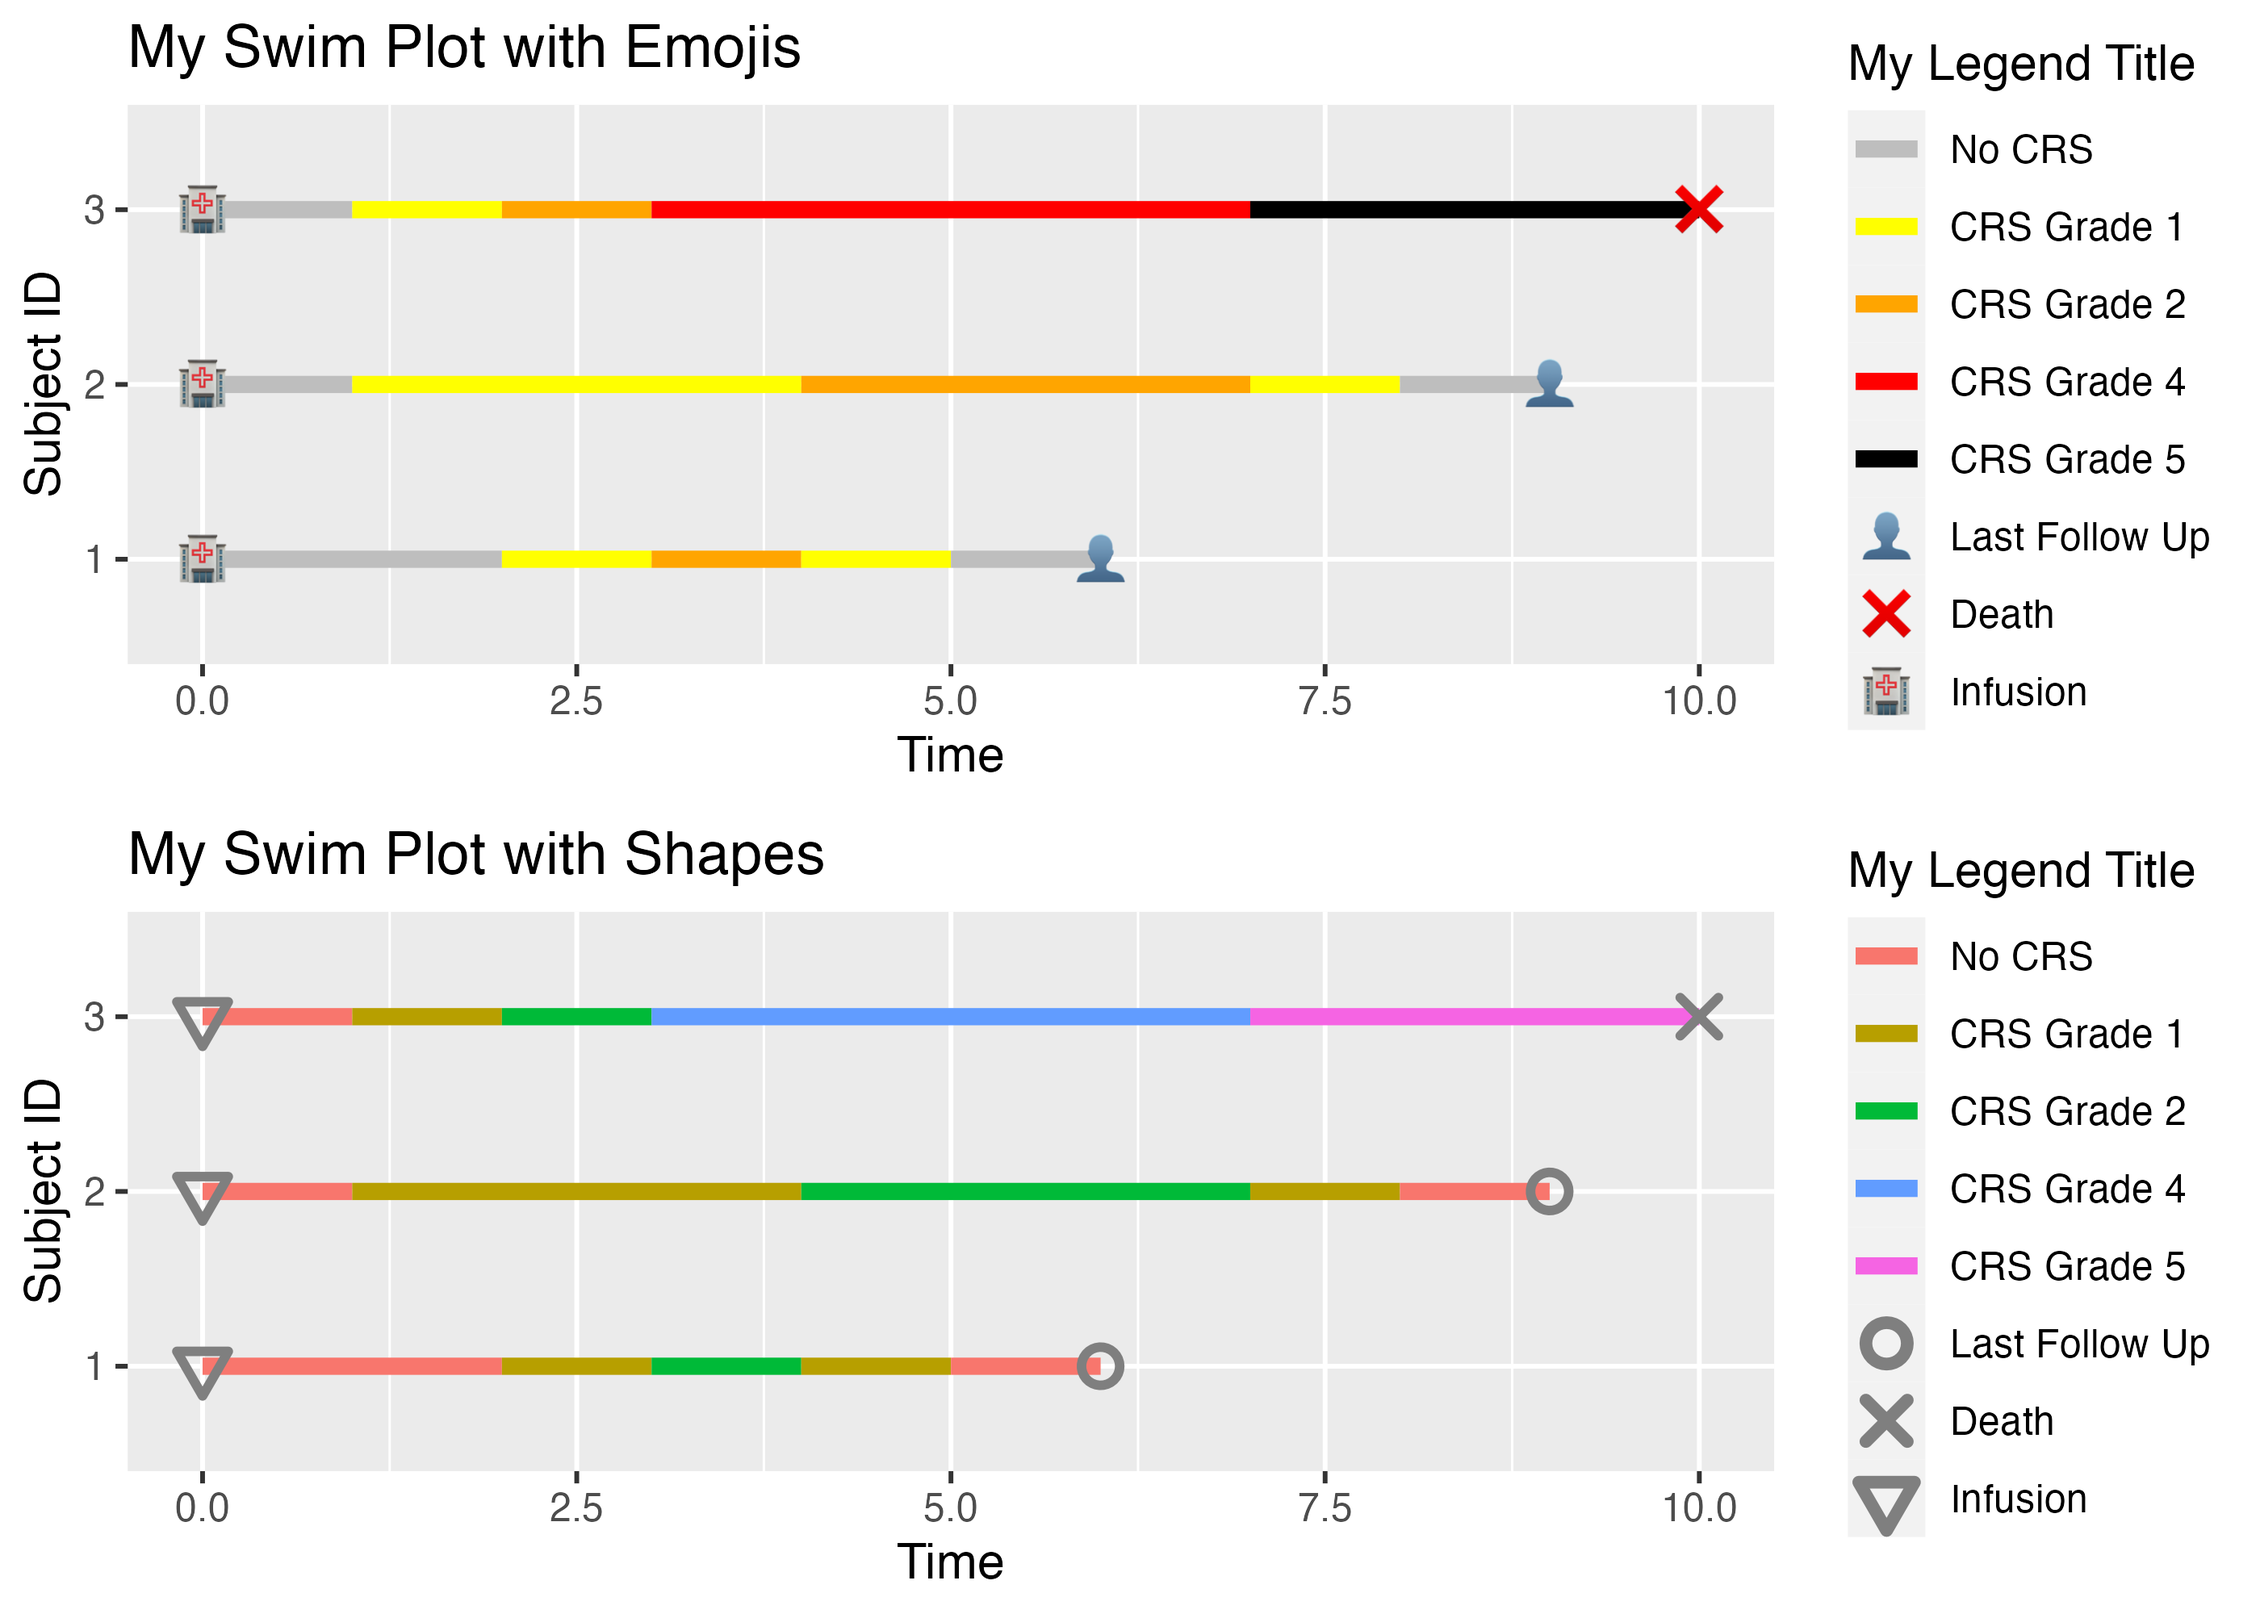
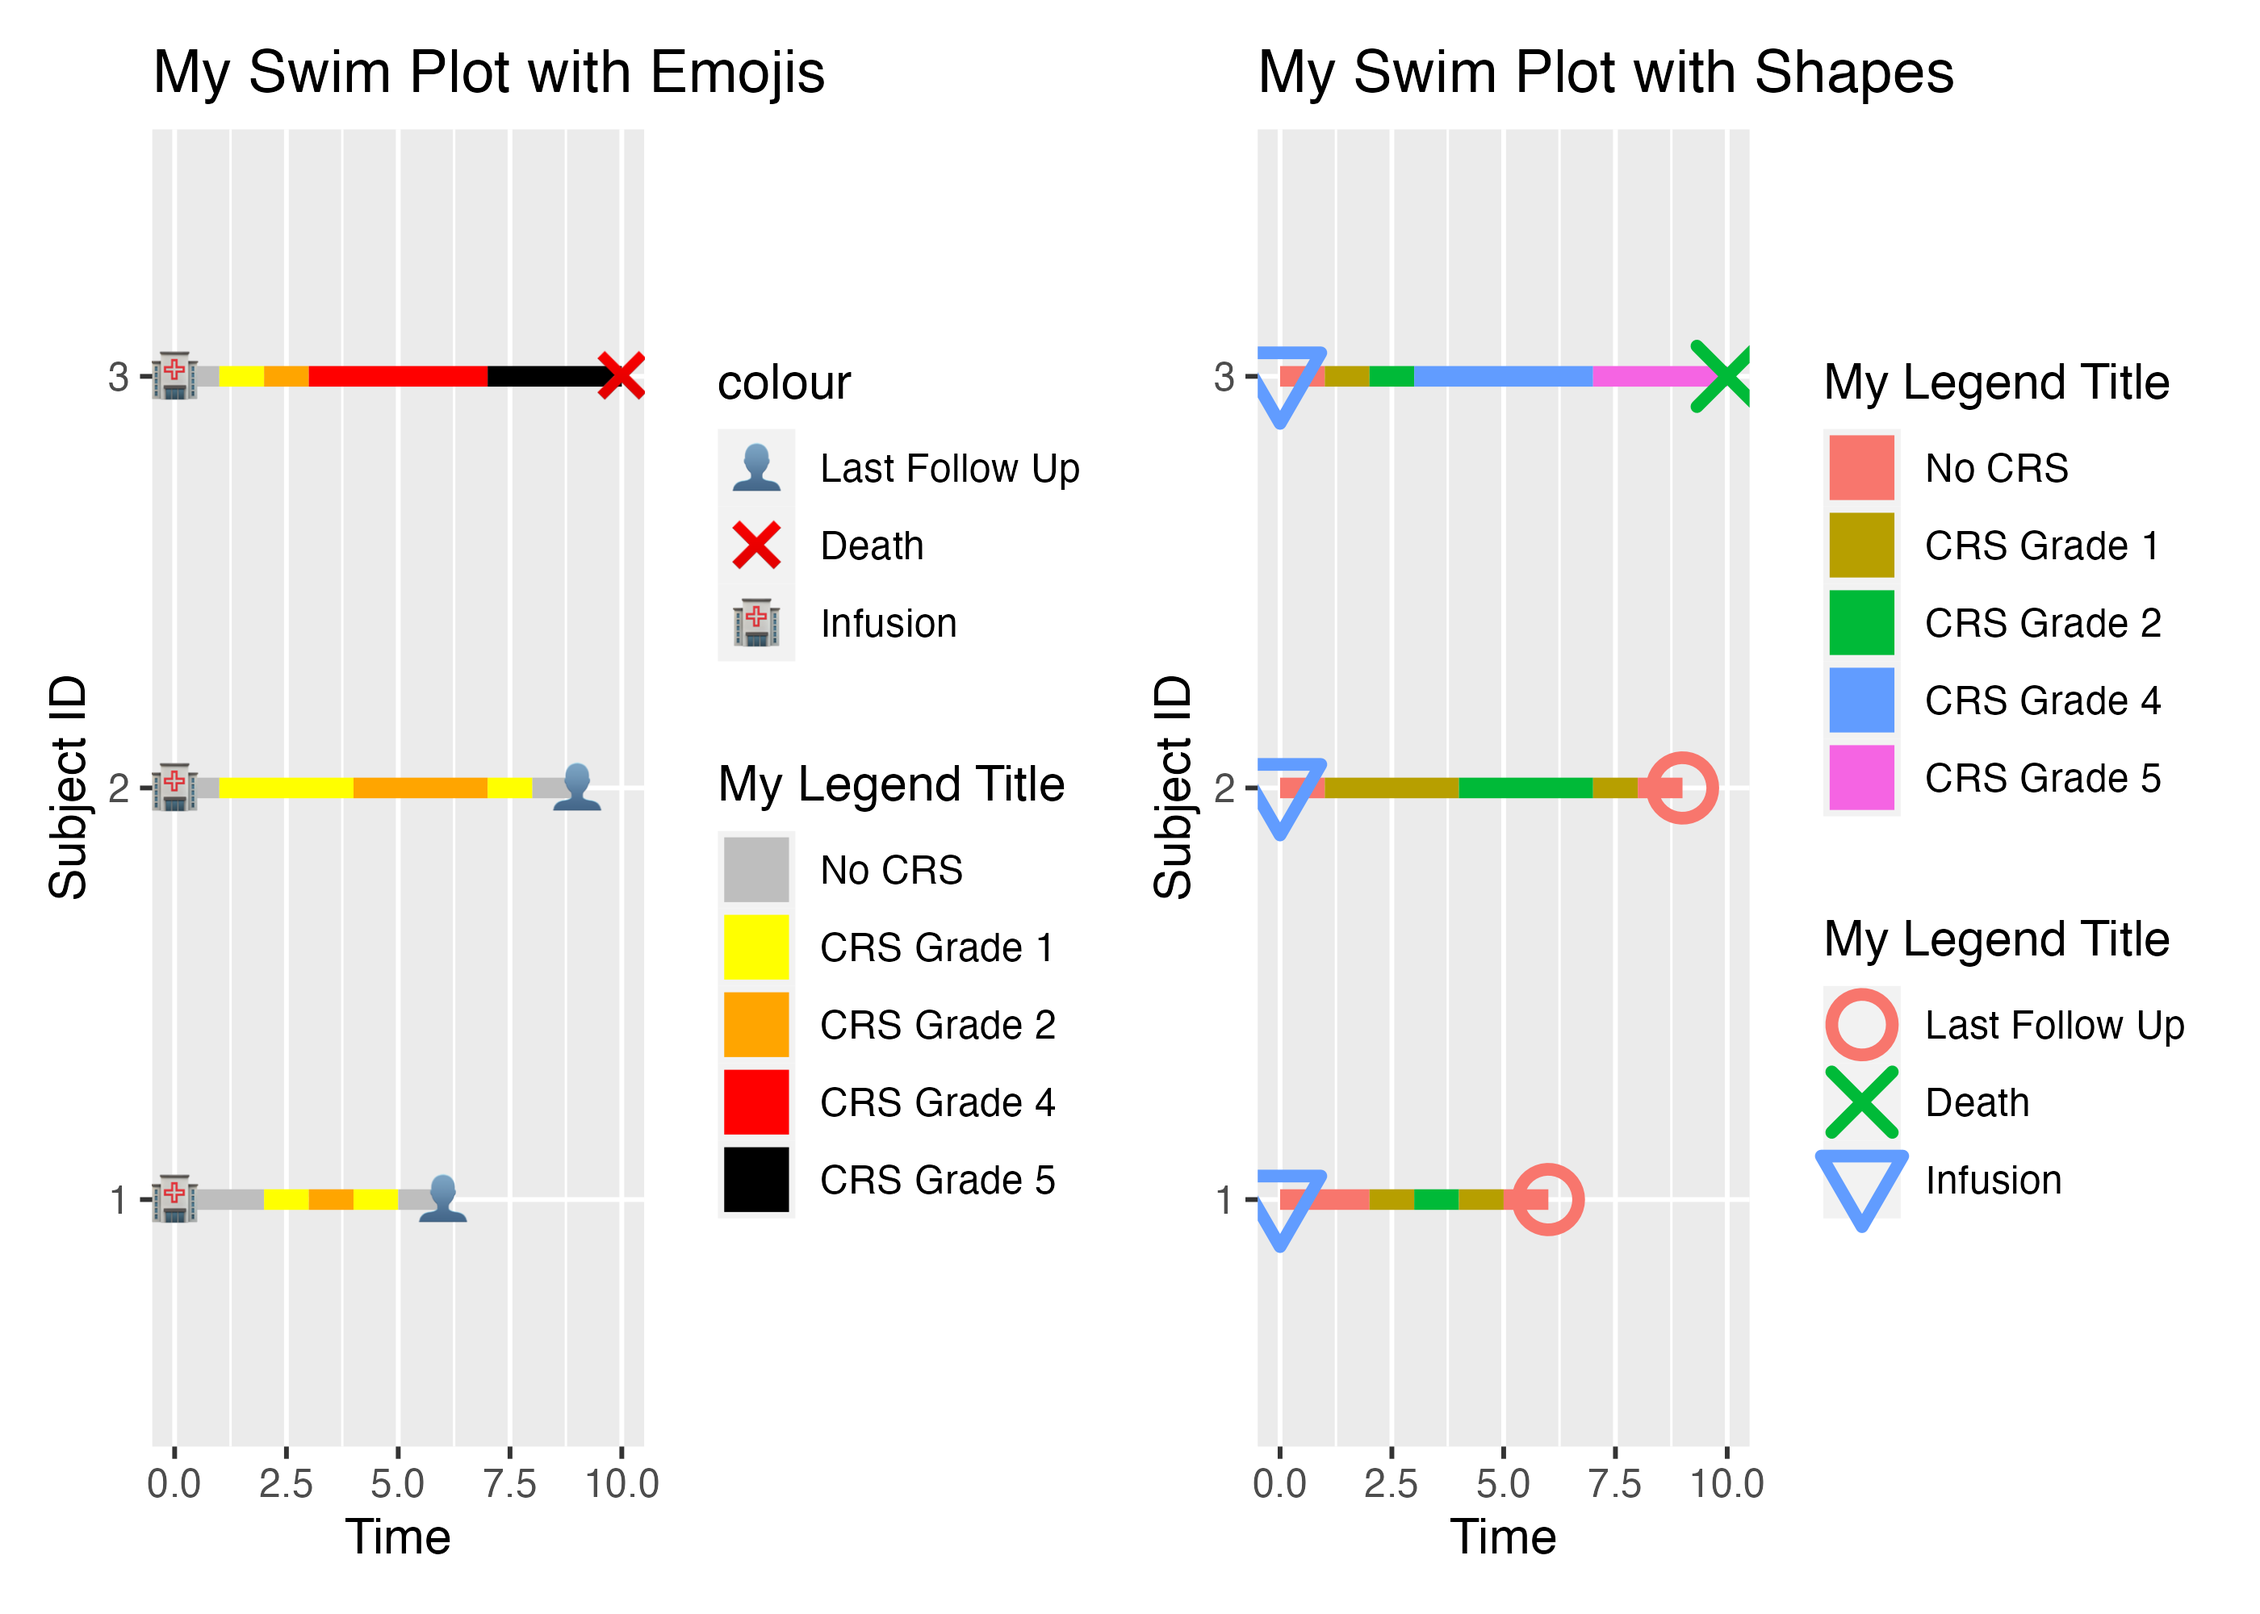
Allow for multiple legend titles

diff --git a/README.md b/README.md
@@ -86,7 +86,7 @@ plot1 <- df |>
          reference_event = "Infusion",
          markers = markers_emoji,
          lanes = lanes,
-         legend_title = "My Legend Title") +
+         legend_title = c("My Lanes Legend", "My Markers Legend")) +
   ggplot2::labs(title = "My Swim Plot with Emojis", x = "Time", y = "Subject ID")
 
 markers_shape <- list(
@@ -111,7 +111,7 @@ plot2 <- df |>
          reference_event = "Infusion",
          markers = markers_shape,
          lanes = unnamed_lanes,
-         legend_title = "My Legend Title") +
+         legend_title = c("My Lanes Legend", "My Markers Legend")) +
   ggplot2::labs(title = "My Swim Plot with Shapes", x = "Time", y = "Subject ID")
 ```
 
@@ -123,12 +123,20 @@ shapes](https://r-graphics.org/recipe-scatter-shapes#discussion-28) and
 are assigned.
 
 ``` r
-library(gridExtra)
-
-grid.arrange(plot1, plot2, ncol = 1)
+plot1 +
+  ggplot2::labs(title = "My Swim Plot", x = "Time", y = "Subject ID") +
+  ggplot2::theme_minimal()
 ```
 
-<img src="man/figures/README-grid plot-1.png" width="100%" />
+<img src="man/figures/README-plot1-1.png" width="100%" />
+
+``` r
+plot2 +
+  ggplot2::labs(title = "My Swim Plot", x = "Time", y = "Subject ID") +
+  ggplot2::theme_minimal()
+```
+
+<img src="man/figures/README-plot2-1.png" width="100%" />
 
 One key thing to note is that lanes and markers are ordered as factors
 in the order they are received. Additionally, the first lane specifier
